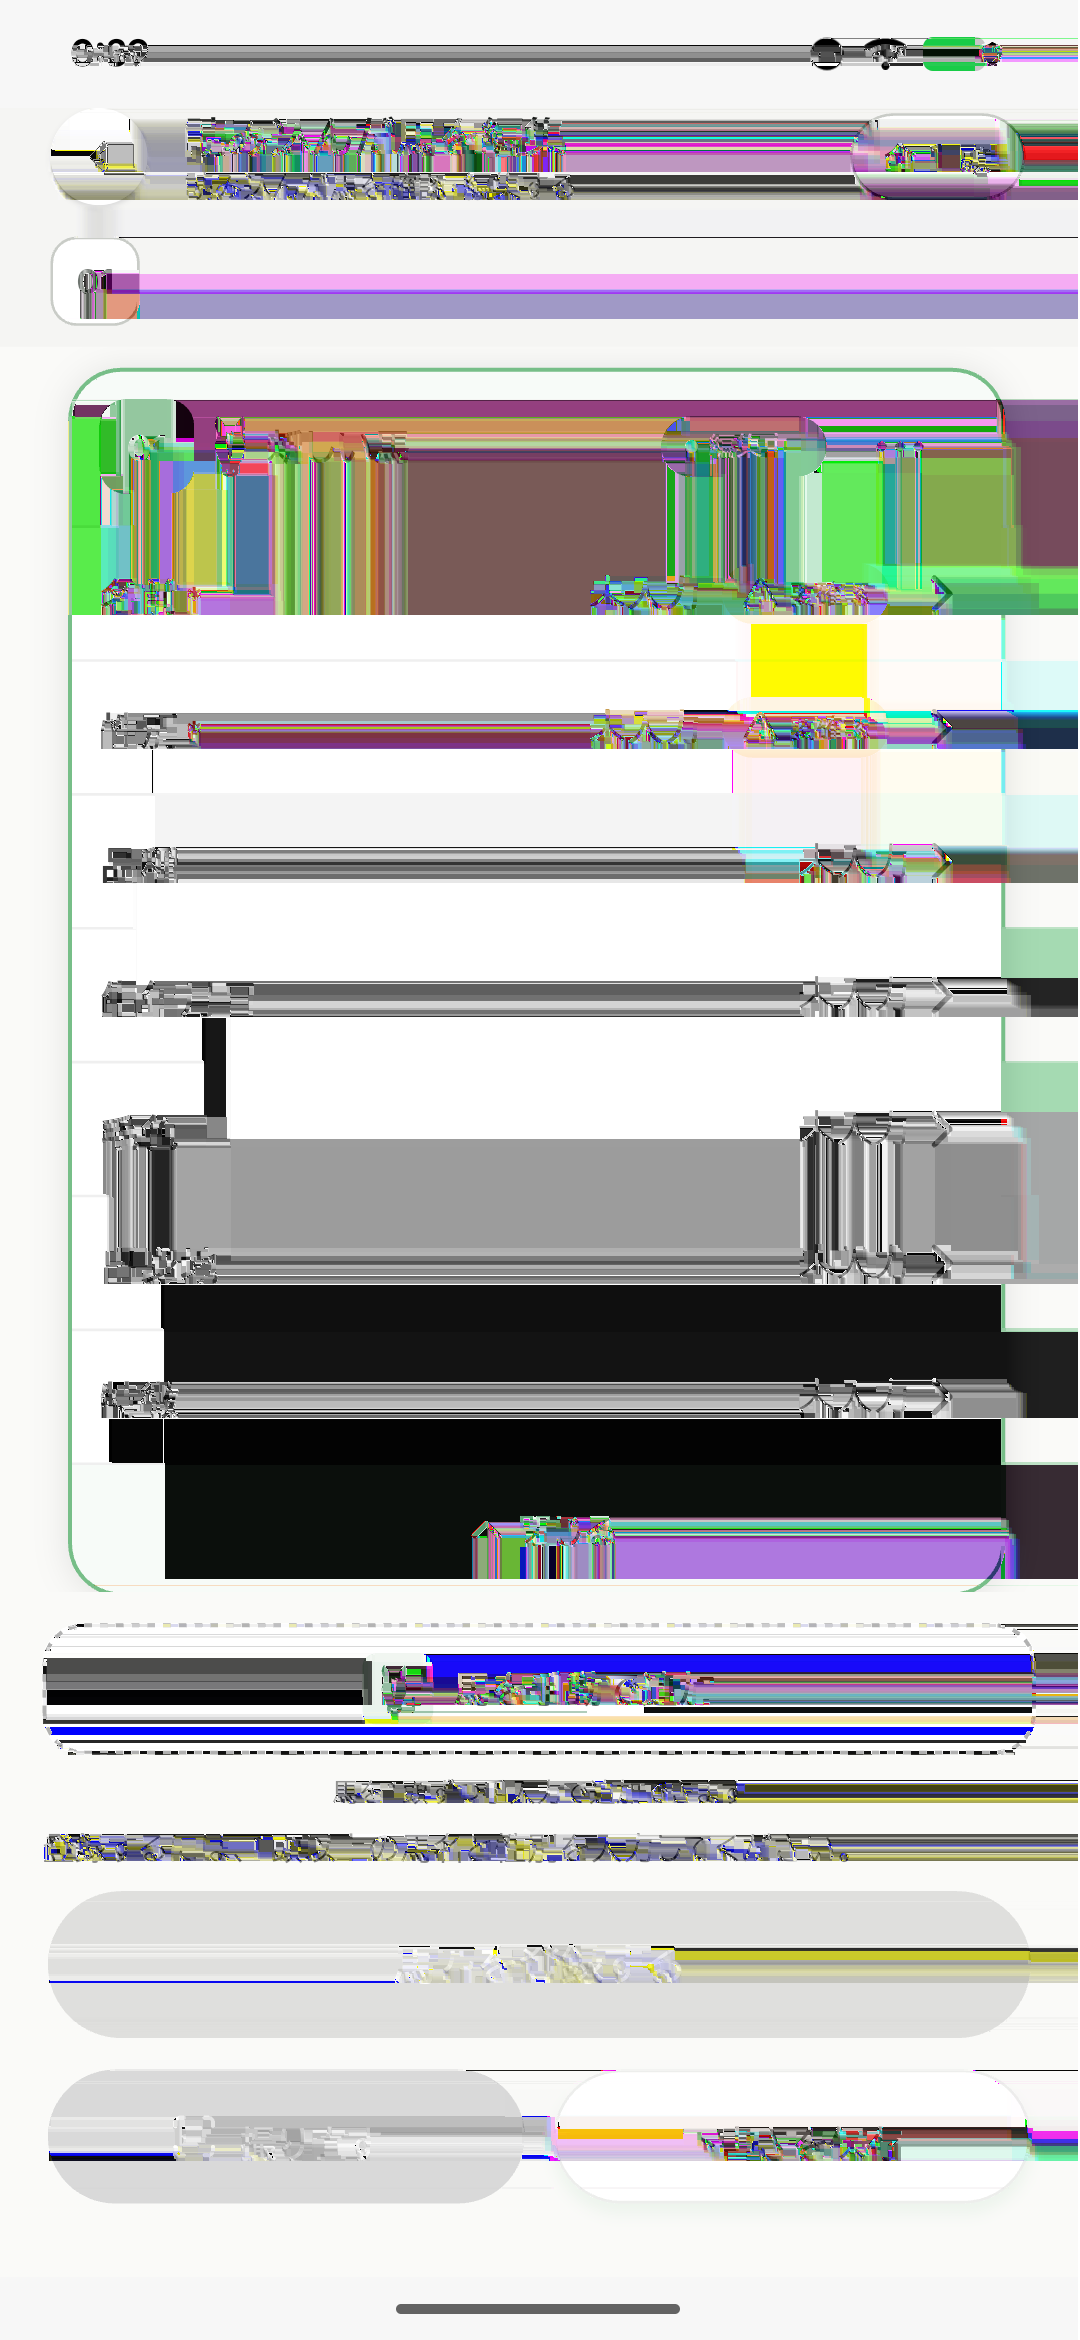
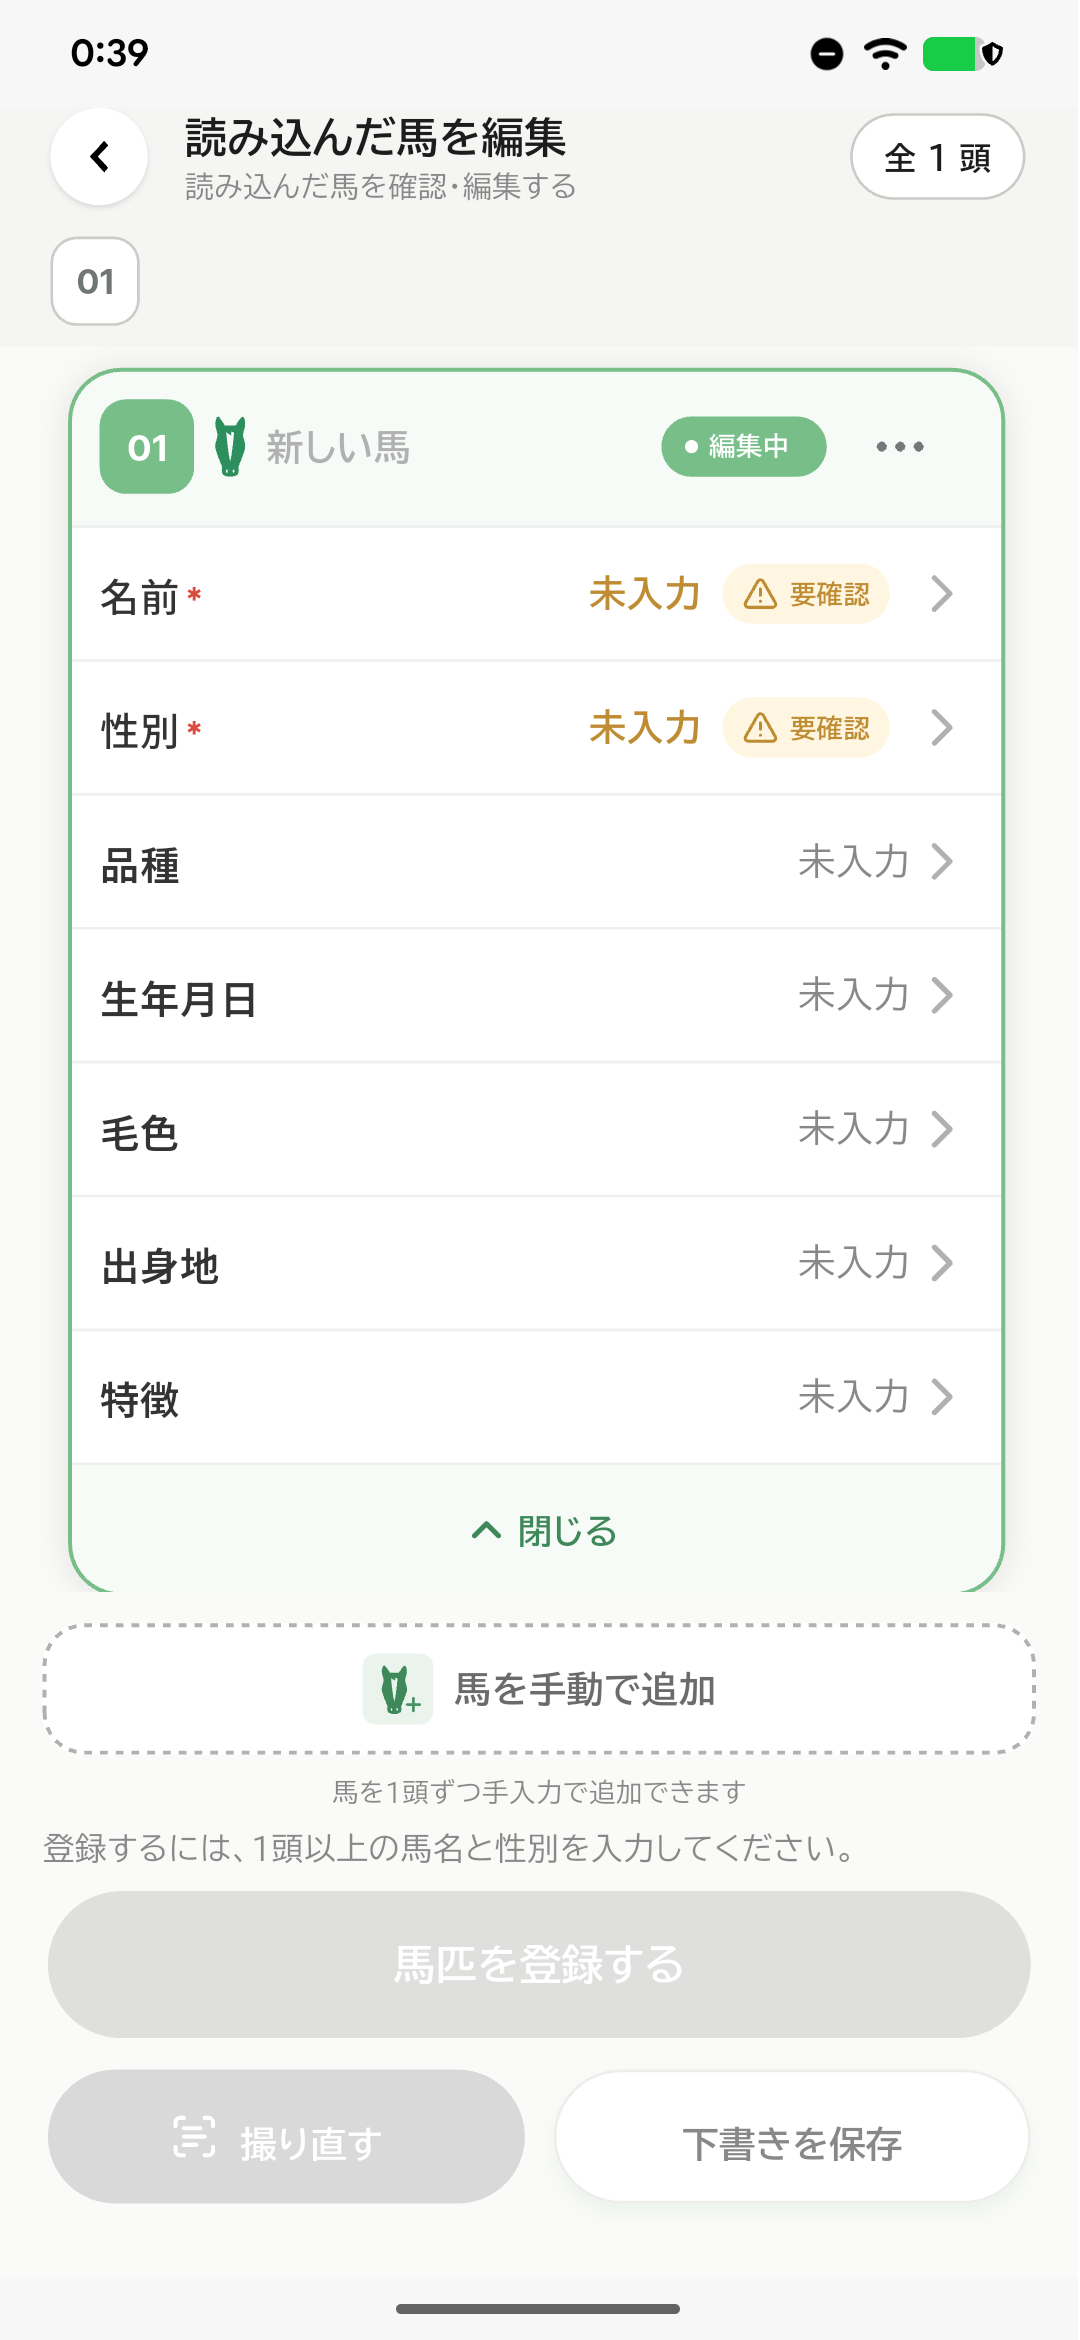
fix: decode PNG ground truth and restore fallback mask coordinates

diff --git a/app/mcp-server/src/service/image-compare-service.test.ts b/app/mcp-server/src/service/image-compare-service.test.ts
@@ -483,6 +483,44 @@ describe("compareImages", () => {
     expect(instances.every((instance) => instance.extract.mock.calls.length === 0)).toBe(true);
   });
 
+  it.each([
+    200, 100,
+  ])("crop中止時のmaskを元画像の位置へ戻すか拒否すること (%i)", async (screenshotHeight) => {
+    const pixelmatchMock = await import("pixelmatch");
+    const instances = Array.from({ length: 10 }, () =>
+      createMockSharpInstance({ width: 100, height: 200 }),
+    );
+    instances[0].metadata.mockResolvedValue({ width: 100, height: 100 });
+    instances[1].metadata.mockResolvedValue({ width: 100, height: screenshotHeight });
+    for (const instance of instances)
+      instance.toBuffer.mockImplementation(async () => Buffer.alloc(100 * 200 * 4, 255));
+    const queue = [...instances];
+    mockSharpFn.mockImplementation(
+      () => queue.shift() ?? createMockSharpInstance({ width: 100, height: 200 }),
+    );
+    vi.mocked(pixelmatchMock.default).mockImplementation((_design, screenshotPixels) => {
+      expect(screenshotPixels[0]).toBe(255);
+      expect(screenshotPixels[150 * 100 * 4]).toBe(0);
+      return 0;
+    });
+    const { compareImages } = await import("./image-compare-service.js");
+    const pending = compareImages({
+      designBase64: Buffer.alloc(100).toString("base64"),
+      screenshotBase64: Buffer.alloc(100).toString("base64"),
+      cropRegion: { x: 0, y: 150, width: 100, height: 50 },
+      ignoreRegions: [{ x: 0, y: 0, width: 10, height: 10 }],
+    });
+    if (screenshotHeight === 100) {
+      await expect(pending).rejects.toThrow("Cannot restore post-crop ignore regions");
+      expect(pixelmatchMock.default).not.toHaveBeenCalled();
+    } else {
+      const result = await pending;
+      expect(result.normalization?.cropApplied).toBe(false);
+      expect(pixelmatchMock.default).toHaveBeenCalledOnce();
+    }
+    expect(instances.every((instance) => instance.extract.mock.calls.length === 0)).toBe(true);
+  });
+
   it("高さ差がある場合は輝度プロファイルの相関で top offset を検出すること", async () => {
     const pixelmatchMock = await import("pixelmatch");
 
@@ -1730,6 +1768,22 @@ describe("compareImages", () => {
 });
 
 describe("classifyAlignmentSource", () => {
+  it.each([
+    0,
+    -1,
+    Number.NaN,
+    Number.POSITIVE_INFINITY,
+  ])("resolveAppliedCropOriginは無効な画像寸法をnullにすること (%s)", async (invalidDimension) => {
+    const { resolveAppliedCropOrigin, resolveAppliedCropRegion } = await import(
+      "./image-compare-service.js"
+    );
+    const crop = { x: 0, y: 0, width: 10, height: 10 };
+    expect(resolveAppliedCropOrigin(crop, invalidDimension, 100)).toBeNull();
+    expect(resolveAppliedCropOrigin(crop, 100, invalidDimension)).toBeNull();
+    expect(resolveAppliedCropRegion(crop, invalidDimension, 100)).toBeNull();
+    expect(resolveAppliedCropRegion(crop, 100, invalidDimension)).toBeNull();
+  });
+
   it("検出したずれを適用しない場合も自動検出として記録すること", async () => {
     const { classifyAlignmentSource } = await import("./image-compare-service.js");
 

diff --git a/app/mcp-server/src/service/image-compare-service.ts b/app/mcp-server/src/service/image-compare-service.ts
@@ -985,6 +985,24 @@ export async function compareImages(
       )
     : null;
   if (cropRegion && !appliedCropRegion) {
+    if (ignoreRegions?.length) {
+      const screenshotCropOrigin = resolveAppliedCropOrigin(
+        cropRegion,
+        screenshotWidth,
+        screenshotHeight,
+      );
+      if (!screenshotCropOrigin) {
+        throw new Error(
+          "Cannot restore post-crop ignore regions without a valid screenshot crop origin.",
+        );
+      }
+      // cropを中止してもmaskはcrop後の座標のまま届くため、元画像の原点へ戻す。
+      ignoreRegions = ignoreRegions.map((region) => ({
+        ...region,
+        x: region.x + screenshotCropOrigin.x,
+        y: region.y + screenshotCropOrigin.y,
+      }));
+    }
     console.warn(
       "Crop region has no valid common image bounds; returning both original image buffers.",
     );
@@ -1404,7 +1422,12 @@ export function resolveAppliedCropOrigin(
   imageWidth: number,
   imageHeight: number,
 ): { x: number; y: number } | null {
-  if (imageWidth <= 0 || imageHeight <= 0) {
+  if (
+    !Number.isFinite(imageWidth) ||
+    !Number.isFinite(imageHeight) ||
+    imageWidth <= 0 ||
+    imageHeight <= 0
+  ) {
     return null;
   }
 
